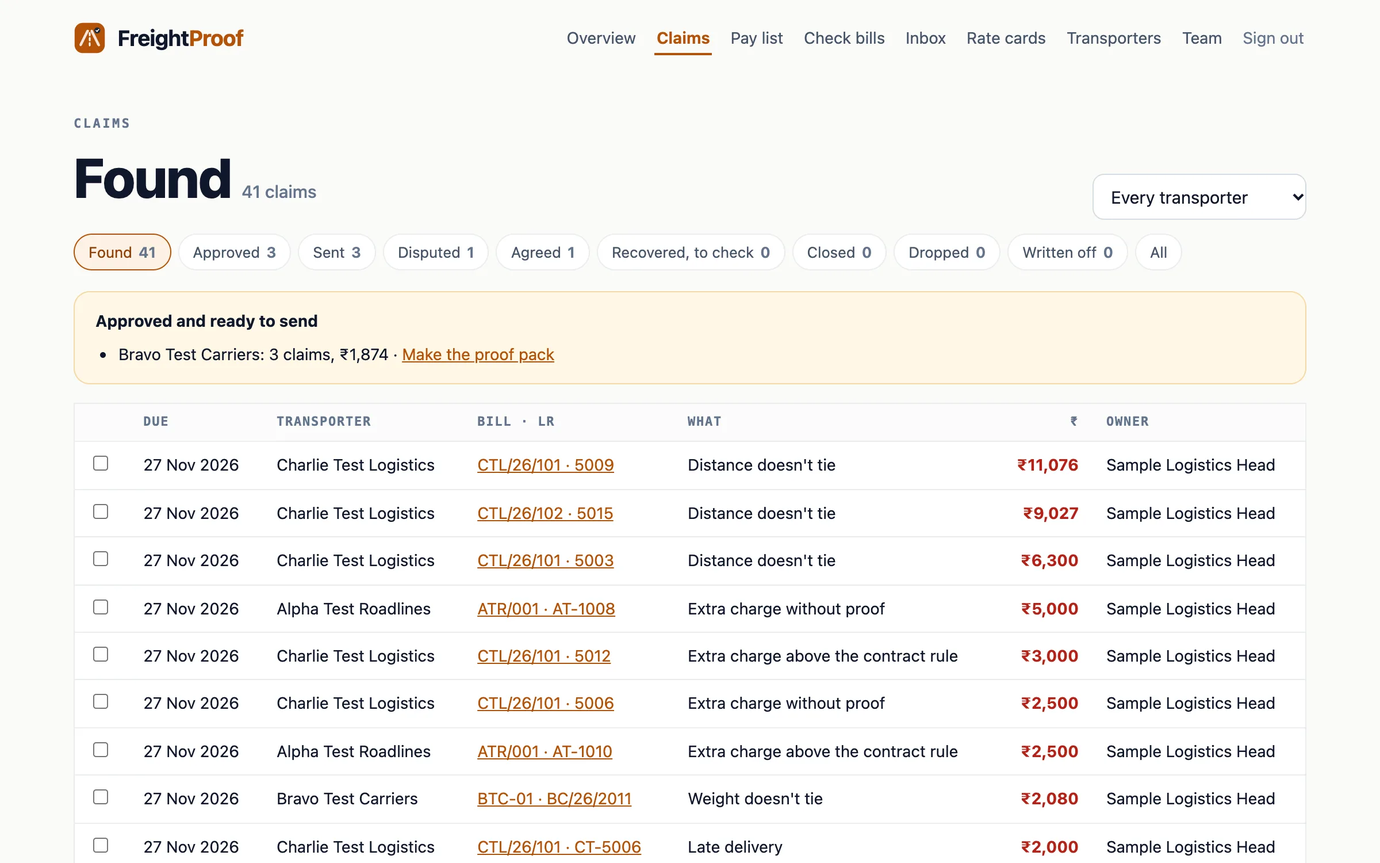
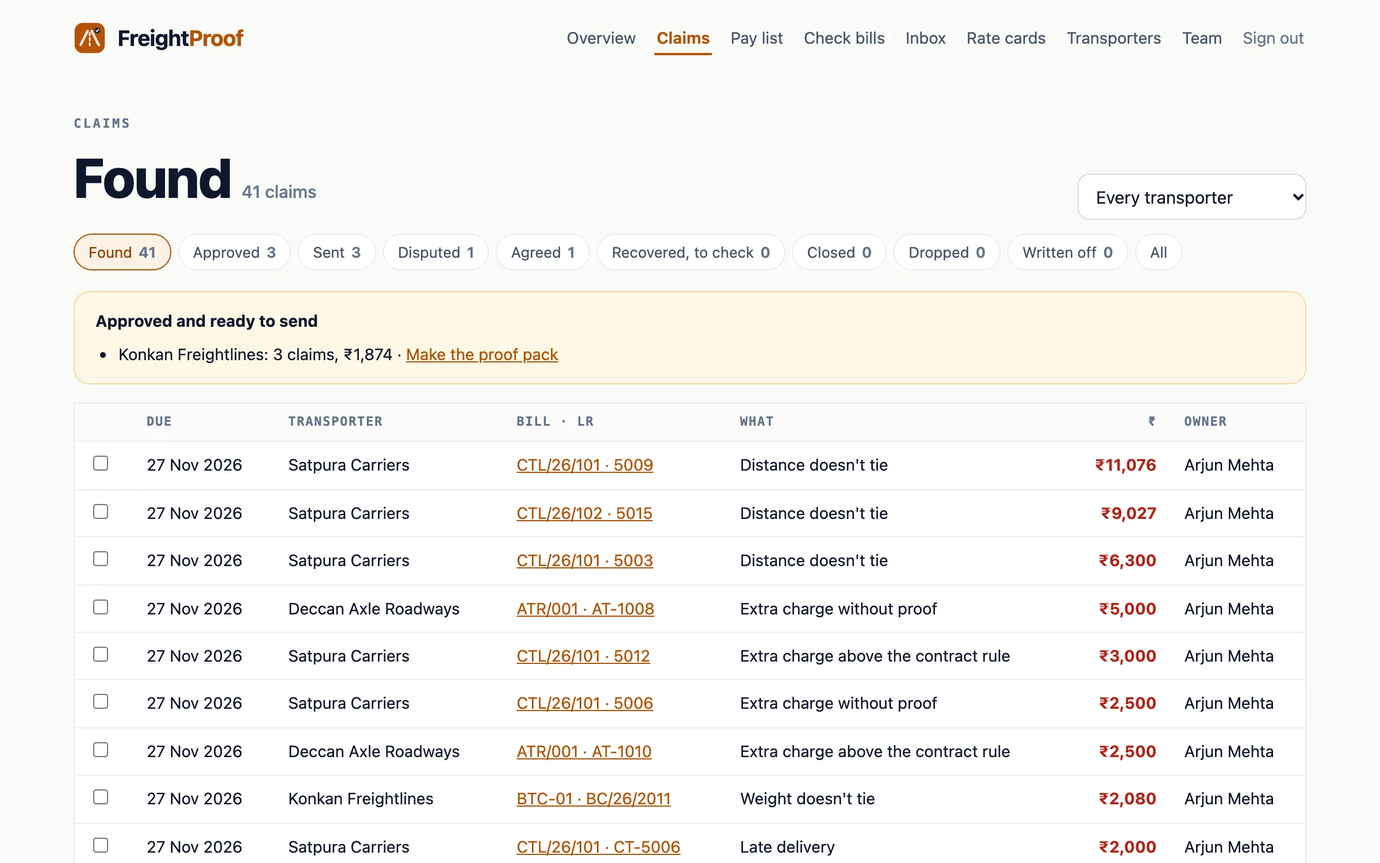
Products: no sample or dev labels; screenshots retaken with realistic demo data
Built from ideator-labs-site 6ffba4e.

diff --git a/products/docketbox/index.html b/products/docketbox/index.html
@@ -159,8 +159,7 @@
             </div>
           </div>
           <div>
-            <figure class="app-screen"><img src="../../assets/images/products/docketbox/docketbox-review.webp" alt="Docketbox review queue: returns waiting for partner approval, oldest first, with days waiting, due date and approve or send back (sample data)" width="2400" height="1500"></figure>
-            <p style="font-size:12px;color:var(--text-muted);margin-top:10px;">Screen shows sample data, for illustration.</p>
+            <figure class="app-screen"><img src="../../assets/images/products/docketbox/docketbox-review.webp" alt="Docketbox review queue: returns waiting for partner approval, oldest first, with days waiting, due date and approve or send back" width="2400" height="1500"></figure>
           </div>
         </div>
       </div>
@@ -233,19 +232,19 @@
         <div class="reveal" style="margin-bottom:24px;">
           <span class="sec-eyebrow">Screens</span>
           <h2 class="sec-title" style="font-size:clamp(24px, 3vw, 32px);">Partner review queue, task board and client page</h2>
-          <p class="sec-subtitle" style="margin-bottom:0;">Screens from Docketbox. Every name, number and amount on them is sample data, made up for illustration.</p>
+          <p class="sec-subtitle" style="margin-bottom:0;">Screens from Docketbox.</p>
         </div>
         <div class="screen-pair screen-trio">
           <figure class="screen-card reveal">
-            <figure class="app-screen"><img src="../../assets/images/products/docketbox/docketbox-review.webp" alt="Docketbox review queue: returns waiting for partner approval, oldest first, with days waiting, due date and approve or send back (sample data)" width="2400" height="1500" loading="lazy"></figure>
+            <figure class="app-screen"><img src="../../assets/images/products/docketbox/docketbox-review.webp" alt="Docketbox review queue: returns waiting for partner approval, oldest first, with days waiting, due date and approve or send back" width="2400" height="1500" loading="lazy"></figure>
             <figcaption><span class="phone-kicker">Review queue</span><strong>What waits for a partner</strong>Every return sent for review, with who sent it and how long it has waited. Approve or send back without opening the task.</figcaption>
           </figure>
           <figure class="screen-card reveal delay-1">
-            <figure class="app-screen"><img src="../../assets/images/products/docketbox/docketbox-board.webp" alt="Docketbox task board: counts by state, then tasks by due date with papers in, owner, state and any late fee running (sample data)" width="2400" height="1500" loading="lazy"></figure>
+            <figure class="app-screen"><img src="../../assets/images/products/docketbox/docketbox-board.webp" alt="Docketbox task board: counts by state, then tasks by due date with papers in, owner, state and any late fee running" width="2400" height="1500" loading="lazy"></figure>
             <figcaption><span class="phone-kicker">Task board</span><strong>Every return, by due date</strong>Overdue, waiting on client, in progress, in review, ready to file and filed, filtered by person, service and state.</figcaption>
           </figure>
           <figure class="screen-card reveal">
-            <figure class="phone-frame"><img src="../../assets/images/products/docketbox/docketbox-upload-390.webp" alt="Docketbox client page on a phone: papers needed with an upload button each, and an option to say there is nothing to send this period (sample data)" width="780" height="1688" loading="lazy"></figure>
+            <figure class="phone-frame"><img src="../../assets/images/products/docketbox/docketbox-upload-390.webp" alt="Docketbox client page on a phone: papers needed with an upload button each, and an option to say there is nothing to send this period" width="780" height="1688" loading="lazy"></figure>
             <figcaption><span class="phone-kicker">Client link</span><strong>What the client sees</strong>What is needed for each period, an upload button per paper, and a way to say there is nothing to send. No sign-in.</figcaption>
           </figure>
         </div>
@@ -267,7 +266,7 @@
           <h2 style="font-size:22px;font-weight:700;color:var(--text-primary);letter-spacing:-0.02em;margin-bottom:14px;">What a demo looks like</h2>
           <ul style="list-style:none;padding:0;margin:0;font-size:14.5px;color:var(--text-secondary);line-height:1.8;">
             <li>&bull; Tell us roughly how many clients you have and which returns you file for them.</li>
-            <li>&bull; We set up a short call and walk you through Docketbox with sample data.</li>
+            <li>&bull; We set up a short call and walk you through Docketbox.</li>
             <li>&bull; We share pricing on the call, before anything costs money.</li>
           </ul>
         </div>

diff --git a/products/freightproof/index.html b/products/freightproof/index.html
@@ -159,8 +159,7 @@
             </div>
           </div>
           <div>
-            <figure class="app-screen"><img src="../../assets/images/products/freightproof/freightproof-claims.webp" alt="FreightProof claims list: found claims with due date, transporter, bill and LR, the overcharge and its owner (sample data)" width="2400" height="1500"></figure>
-            <p style="font-size:12px;color:var(--text-muted);margin-top:10px;">Screen shows sample data, for illustration.</p>
+            <figure class="app-screen"><img src="../../assets/images/products/freightproof/freightproof-claims.webp" alt="FreightProof claims list: found claims with due date, transporter, bill and LR, the overcharge and its owner" width="2400" height="1500"></figure>
           </div>
         </div>
       </div>
@@ -233,19 +232,19 @@
         <div class="reveal" style="margin-bottom:24px;">
           <span class="sec-eyebrow">Screens</span>
           <h2 class="sec-title" style="font-size:clamp(24px, 3vw, 32px);">Claims, evidence and the pay list</h2>
-          <p class="sec-subtitle" style="margin-bottom:0;">Screens from FreightProof. Every name, number and amount on them is sample data, made up for illustration.</p>
+          <p class="sec-subtitle" style="margin-bottom:0;">Screens from FreightProof.</p>
         </div>
         <div class="screen-pair">
           <figure class="screen-card reveal">
-            <figure class="app-screen"><img src="../../assets/images/products/freightproof/freightproof-claims.webp" alt="FreightProof claims list: found claims with due date, transporter, bill and LR, the overcharge and its owner (sample data)" width="2400" height="1500" loading="lazy"></figure>
+            <figure class="app-screen"><img src="../../assets/images/products/freightproof/freightproof-claims.webp" alt="FreightProof claims list: found claims with due date, transporter, bill and LR, the overcharge and its owner" width="2400" height="1500" loading="lazy"></figure>
             <figcaption><span class="phone-kicker">Logistics head</span><strong>Claims to decide</strong>Every found claim with its amount, due date and owner, approved or dropped in a batch.</figcaption>
           </figure>
           <figure class="screen-card reveal delay-1">
-            <figure class="app-screen"><img src="../../assets/images/products/freightproof/freightproof-claim.webp" alt="FreightProof claim page: the bill line as billed, the contract rate and version, the LR record and the next step (sample data)" width="2400" height="1500" loading="lazy"></figure>
+            <figure class="app-screen"><img src="../../assets/images/products/freightproof/freightproof-claim.webp" alt="FreightProof claim page: the bill line as billed, the contract rate and version, the LR record and the next step" width="2400" height="1500" loading="lazy"></figure>
             <figcaption><span class="phone-kicker">Evidence</span><strong>Why each amount is questioned</strong>The bill line, the contract row and rate card version, the LR record, the source file's fingerprint and the transporter's reply.</figcaption>
           </figure>
           <figure class="screen-card reveal">
-            <figure class="app-screen"><img src="../../assets/images/products/freightproof/freightproof-pay.webp" alt="FreightProof pay list: each bill with the amount held on open claims and the amount to pay now (sample data)" width="2400" height="1500" loading="lazy"></figure>
+            <figure class="app-screen"><img src="../../assets/images/products/freightproof/freightproof-pay.webp" alt="FreightProof pay list: each bill with the amount held on open claims and the amount to pay now" width="2400" height="1500" loading="lazy"></figure>
             <figcaption><span class="phone-kicker">Accounts</span><strong>What to pay, and what to hold</strong>Each unpaid bill with the amount held on open claims, with a warning for micro and small transporters near 45 days.</figcaption>
           </figure>
         </div>
@@ -267,7 +266,7 @@
           <h2 style="font-size:22px;font-weight:700;color:var(--text-primary);letter-spacing:-0.02em;margin-bottom:14px;">What a demo looks like</h2>
           <ul style="list-style:none;padding:0;margin:0;font-size:14.5px;color:var(--text-secondary);line-height:1.8;">
             <li>&bull; Tell us how many transporters you use and how bills reach you.</li>
-            <li>&bull; We set up a short call and walk you through FreightProof with sample data.</li>
+            <li>&bull; We set up a short call and walk you through FreightProof.</li>
             <li>&bull; We share pricing on the call, before anything costs money.</li>
           </ul>
         </div>

diff --git a/products/taktline/index.html b/products/taktline/index.html
@@ -159,8 +159,7 @@
             </div>
           </div>
           <div>
-            <figure class="app-screen"><img src="../../assets/images/products/taktline/taktline-owner.webp" alt="Taktline owner screen: rupees at risk on open actions, hours lost yesterday, checks on time, dead stock cash, overdue work by person and open actions by kind (sample data)" width="2400" height="1500"></figure>
-            <p style="font-size:12px;color:var(--text-muted);margin-top:10px;">Screen shows sample data, for illustration.</p>
+            <figure class="app-screen"><img src="../../assets/images/products/taktline/taktline-owner.webp" alt="Taktline owner screen: rupees at risk on open actions, hours lost yesterday, checks on time, dead stock cash, overdue work by person and open actions by kind" width="2400" height="1500"></figure>
           </div>
         </div>
       </div>
@@ -233,19 +232,19 @@
         <div class="reveal" style="margin-bottom:24px;">
           <span class="sec-eyebrow">Screens</span>
           <h2 class="sec-title" style="font-size:clamp(24px, 3vw, 32px);">Owner screen, supplier chase list and the floor phone</h2>
-          <p class="sec-subtitle" style="margin-bottom:0;">Screens from Taktline. Every name, number and amount on them is sample data, made up for illustration.</p>
+          <p class="sec-subtitle" style="margin-bottom:0;">Screens from Taktline.</p>
         </div>
         <div class="screen-pair screen-trio">
           <figure class="screen-card reveal">
-            <figure class="app-screen"><img src="../../assets/images/products/taktline/taktline-owner.webp" alt="Taktline owner screen: rupees at risk on open actions, hours lost yesterday, checks on time, dead stock cash, overdue work by person and open actions by kind (sample data)" width="2400" height="1500" loading="lazy"></figure>
+            <figure class="app-screen"><img src="../../assets/images/products/taktline/taktline-owner.webp" alt="Taktline owner screen: rupees at risk on open actions, hours lost yesterday, checks on time, dead stock cash, overdue work by person and open actions by kind" width="2400" height="1500" loading="lazy"></figure>
             <figcaption><span class="phone-kicker">Owner</span><strong>What needs the owner today</strong>Rupees at risk on open actions, yesterday's lost hours, checks on time and dead stock cash, then only what is late or raised.</figcaption>
           </figure>
           <figure class="screen-card reveal delay-1">
-            <figure class="app-screen"><img src="../../assets/images/products/taktline/taktline-chase.webp" alt="Taktline supplier chase list: late order lines by supplier with quantity and rupees still to come, the stops they caused, and a message to copy (sample data)" width="2400" height="1500" loading="lazy"></figure>
+            <figure class="app-screen"><img src="../../assets/images/products/taktline/taktline-chase.webp" alt="Taktline supplier chase list: late order lines by supplier with quantity and rupees still to come, the stops they caused, and a message to copy" width="2400" height="1500" loading="lazy"></figure>
             <figcaption><span class="phone-kicker">Stock</span><strong>Late suppliers, with the stops they caused</strong>Late order lines by supplier, the machine stops that waited for those items, and a message ready to copy.</figcaption>
           </figure>
           <figure class="screen-card reveal">
-            <figure class="phone-frame"><img src="../../assets/images/products/taktline/taktline-floor-390.webp" alt="Taktline floor phone: a running stop timer with a Running again button, Log a stop and Start-of-shift check (sample data)" width="780" height="1688" loading="lazy"></figure>
+            <figure class="phone-frame"><img src="../../assets/images/products/taktline/taktline-floor-390.webp" alt="Taktline floor phone: a running stop timer with a Running again button, Log a stop and Start-of-shift check" width="780" height="1688" loading="lazy"></figure>
             <figcaption><span class="phone-kicker">Floor</span><strong>From the machine, in a few taps</strong>A stop timer, the stop log and the start-of-shift check, in English, Hindi, Gujarati or Marathi.</figcaption>
           </figure>
         </div>

diff --git a/products/plumbline/index.html b/products/plumbline/index.html
@@ -159,8 +159,7 @@
             </div>
           </div>
           <div>
-            <figure class="app-screen"><img src="../../assets/images/products/plumbline/plumbline-review.webp" alt="Plumbline head office review queue: disputes to decide, escalated fixes, repeat findings and locations failing their latest audit (sample data)" width="2400" height="1500"></figure>
-            <p style="font-size:12px;color:var(--text-muted);margin-top:10px;">Screen shows sample data, for illustration.</p>
+            <figure class="app-screen"><img src="../../assets/images/products/plumbline/plumbline-review.webp" alt="Plumbline head office review queue: disputes to decide, escalated fixes, repeat findings and locations failing their latest audit" width="2400" height="1500"></figure>
           </div>
         </div>
       </div>
@@ -233,19 +232,19 @@
         <div class="reveal" style="margin-bottom:24px;">
           <span class="sec-eyebrow">Screens</span>
           <h2 class="sec-title" style="font-size:clamp(24px, 3vw, 32px);">Head office queue, a finding and the visit plan</h2>
-          <p class="sec-subtitle" style="margin-bottom:0;">Screens from Plumbline. Every name, number and amount on them is sample data, made up for illustration.</p>
+          <p class="sec-subtitle" style="margin-bottom:0;">Screens from Plumbline.</p>
         </div>
         <div class="screen-pair screen-trio">
           <figure class="screen-card reveal">
-            <figure class="app-screen"><img src="../../assets/images/products/plumbline/plumbline-review.webp" alt="Plumbline head office review queue: disputes to decide, escalated fixes, repeat findings and locations failing their latest audit (sample data)" width="2400" height="1500" loading="lazy"></figure>
+            <figure class="app-screen"><img src="../../assets/images/products/plumbline/plumbline-review.webp" alt="Plumbline head office review queue: disputes to decide, escalated fixes, repeat findings and locations failing their latest audit" width="2400" height="1500" loading="lazy"></figure>
             <figcaption><span class="phone-kicker">Head office</span><strong>What only head office settles</strong>Disputes to decide, fixes past their deadline, fixes reopened twice, repeat findings and failing audits, in one queue.</figcaption>
           </figure>
           <figure class="screen-card reveal delay-1">
-            <figure class="app-screen"><img src="../../assets/images/products/plumbline/plumbline-finding.webp" alt="Plumbline finding: the failed checklist item, its corrective action with owner and deadline, photo proof and the full history (sample data)" width="2400" height="1500" loading="lazy"></figure>
+            <figure class="app-screen"><img src="../../assets/images/products/plumbline/plumbline-finding.webp" alt="Plumbline finding: the failed checklist item, its corrective action with owner and deadline, photo proof and the full history" width="2400" height="1500" loading="lazy"></figure>
             <figcaption><span class="phone-kicker">Finding</span><strong>One failed item, from raised to verified</strong>The failed item with its photos, the fix with its owner and deadline, and every step kept in the record.</figcaption>
           </figure>
           <figure class="screen-card reveal">
-            <figure class="phone-frame"><img src="../../assets/images/products/plumbline/plumbline-area-390.webp" alt="Plumbline visit plan on a phone: locations ranked by priority, with the reasons and the fixes to check on site (sample data)" width="780" height="1688" loading="lazy"></figure>
+            <figure class="phone-frame"><img src="../../assets/images/products/plumbline/plumbline-area-390.webp" alt="Plumbline visit plan on a phone: locations ranked by priority, with the reasons and the fixes to check on site" width="780" height="1688" loading="lazy"></figure>
             <figcaption><span class="phone-kicker">Area manager</span><strong>Where to go this week</strong>Locations ranked by risk, failing audits and time since the last audit, with the fixes to check on the visit.</figcaption>
           </figure>
         </div>

diff --git a/products/chairside/index.html b/products/chairside/index.html
@@ -159,8 +159,7 @@
             </div>
           </div>
           <div>
-            <figure class="app-screen"><img src="../../assets/images/products/chairside/chairside-owner.webp" alt="Chairside owner screen: packages owed, redemption checks, due-backs and disputes per outlet, and patterns worth a look (sample data)" width="2400" height="1500"></figure>
-            <p style="font-size:12px;color:var(--text-muted);margin-top:10px;">Screen shows sample data, for illustration.</p>
+            <figure class="app-screen"><img src="../../assets/images/products/chairside/chairside-owner.webp" alt="Chairside owner screen: packages owed, redemption checks, due-backs and disputes per outlet, and patterns worth a look" width="2400" height="1500"></figure>
           </div>
         </div>
       </div>
@@ -233,19 +232,19 @@
         <div class="reveal" style="margin-bottom:24px;">
           <span class="sec-eyebrow">Screens</span>
           <h2 class="sec-title" style="font-size:clamp(24px, 3vw, 32px);">Owner view, commission statement and client confirmation</h2>
-          <p class="sec-subtitle" style="margin-bottom:0;">Screens from Chairside. Every name, number and amount on them is sample data, made up for illustration.</p>
+          <p class="sec-subtitle" style="margin-bottom:0;">Screens from Chairside.</p>
         </div>
         <div class="screen-pair screen-trio">
           <figure class="screen-card reveal">
-            <figure class="app-screen"><img src="../../assets/images/products/chairside/chairside-owner.webp" alt="Chairside owner screen: packages owed, redemption checks, due-backs and disputes per outlet, and patterns worth a look (sample data)" width="2400" height="1500" loading="lazy"></figure>
+            <figure class="app-screen"><img src="../../assets/images/products/chairside/chairside-owner.webp" alt="Chairside owner screen: packages owed, redemption checks, due-backs and disputes per outlet, and patterns worth a look" width="2400" height="1500" loading="lazy"></figure>
             <figcaption><span class="phone-kicker">Owner</span><strong>Every outlet on one screen</strong>What clients have paid for and not used, unconfirmed package uses, overdue due-backs and disputes, per outlet.</figcaption>
           </figure>
           <figure class="screen-card reveal delay-1">
-            <figure class="app-screen"><img src="../../assets/images/products/chairside/chairside-statement.webp" alt="Chairside commission statement: each checked line, how it was checked, and the monthly target working (sample data)" width="2400" height="1500" loading="lazy"></figure>
+            <figure class="app-screen"><img src="../../assets/images/products/chairside/chairside-statement.webp" alt="Chairside commission statement: each checked line, how it was checked, and the monthly target working" width="2400" height="1500" loading="lazy"></figure>
             <figcaption><span class="phone-kicker">Commission</span><strong>A statement the stylist can check</strong>Every line with how it was checked, the target and slab working, adjustments and the total.</figcaption>
           </figure>
           <figure class="screen-card reveal">
-            <figure class="phone-frame"><img src="../../assets/images/products/chairside/chairside-confirm-390.webp" alt="Chairside confirmation page on the client's phone: the service, the package and what is left, with yes and no buttons (sample data)" width="780" height="1688" loading="lazy"></figure>
+            <figure class="phone-frame"><img src="../../assets/images/products/chairside/chairside-confirm-390.webp" alt="Chairside confirmation page on the client's phone: the service, the package and what is left, with yes and no buttons" width="780" height="1688" loading="lazy"></figure>
             <figcaption><span class="phone-kicker">Client's phone</span><strong>The client confirms the use</strong>One scan, two buttons, no app or login. Their answer is recorded with the use.</figcaption>
           </figure>
         </div>

diff --git a/products/furnitrail/index.html b/products/furnitrail/index.html
@@ -159,8 +159,7 @@
             </div>
           </div>
           <div>
-            <figure class="app-screen"><img src="../../assets/images/products/furnitrail/furnitrail-today.webp" alt="FurniTrail morning digest: rupees quoted in open deals, advances due, overdue work by person, escalations and each branch (sample data)" width="2400" height="1500"></figure>
-            <p style="font-size:12px;color:var(--text-muted);margin-top:10px;">Screen shows sample data, for illustration.</p>
+            <figure class="app-screen"><img src="../../assets/images/products/furnitrail/furnitrail-today.webp" alt="FurniTrail morning digest: rupees quoted in open deals, advances due, overdue work by person, escalations and each branch" width="2400" height="1500"></figure>
           </div>
         </div>
       </div>
@@ -233,19 +232,19 @@
         <div class="reveal" style="margin-bottom:24px;">
           <span class="sec-eyebrow">Screens</span>
           <h2 class="sec-title" style="font-size:clamp(24px, 3vw, 32px);">Owner's morning, the order, and the crew's phone</h2>
-          <p class="sec-subtitle" style="margin-bottom:0;">Screens from FurniTrail. Every name, number and amount on them is sample data, made up for illustration.</p>
+          <p class="sec-subtitle" style="margin-bottom:0;">Screens from FurniTrail.</p>
         </div>
         <div class="screen-pair screen-trio">
           <figure class="screen-card reveal">
-            <figure class="app-screen"><img src="../../assets/images/products/furnitrail/furnitrail-today.webp" alt="FurniTrail morning digest: rupees quoted in open deals, advances due, overdue work by person, escalations and each branch (sample data)" width="2400" height="1500" loading="lazy"></figure>
+            <figure class="app-screen"><img src="../../assets/images/products/furnitrail/furnitrail-today.webp" alt="FurniTrail morning digest: rupees quoted in open deals, advances due, overdue work by person, escalations and each branch" width="2400" height="1500" loading="lazy"></figure>
             <figcaption><span class="phone-kicker">Morning digest</span><strong>The store on one screen</strong>Rupees quoted, advances due, what is late and with whom, and every escalation.</figcaption>
           </figure>
           <figure class="screen-card reveal delay-1">
-            <figure class="app-screen"><img src="../../assets/images/products/furnitrail/furnitrail-order.webp" alt="FurniTrail order page: order number, delivery date and slot, total, paid and balance, then the quotation (sample data)" width="2400" height="1500" loading="lazy"></figure>
+            <figure class="app-screen"><img src="../../assets/images/products/furnitrail/furnitrail-order.webp" alt="FurniTrail order page: order number, delivery date and slot, total, paid and balance, then the quotation" width="2400" height="1500" loading="lazy"></figure>
             <figcaption><span class="phone-kicker">Order</span><strong>Money and delivery in one place</strong>Order number, delivery slot, payments and balance, with the quotation below.</figcaption>
           </figure>
           <figure class="screen-card reveal">
-            <figure class="phone-frame"><img src="../../assets/images/products/furnitrail/furnitrail-job-390.webp" alt="FurniTrail delivery job on a crew phone: buyer, address, balance to collect, ask to confirm the time, pieces and loading photos (sample data)" width="780" height="1688" loading="lazy"></figure>
+            <figure class="phone-frame"><img src="../../assets/images/products/furnitrail/furnitrail-job-390.webp" alt="FurniTrail delivery job on a crew phone: buyer, address, balance to collect, ask to confirm the time, pieces and loading photos" width="780" height="1688" loading="lazy"></figure>
             <figcaption><span class="phone-kicker">Crew job</span><strong>What the crew sees</strong>Address, balance to collect, the buyer's time confirmation, photos and the sign-off.</figcaption>
           </figure>
         </div>

diff --git a/products/carecadence/index.html b/products/carecadence/index.html
@@ -159,8 +159,7 @@
             </div>
           </div>
           <div>
-            <figure class="app-screen"><img src="../../assets/images/products/carecadence/carecadence-desk.webp" alt="CareCadence today list: due, overdue, booked and no-show counts, then each patient with a prepared message and an outcome to save (sample data)" width="2400" height="1500"></figure>
-            <p style="font-size:12px;color:var(--text-muted);margin-top:10px;">Screen shows sample data, for illustration.</p>
+            <figure class="app-screen"><img src="../../assets/images/products/carecadence/carecadence-desk.webp" alt="CareCadence today list: due, overdue, booked and no-show counts, then each patient with a prepared message and an outcome to save" width="2400" height="1500"></figure>
           </div>
         </div>
       </div>
@@ -233,19 +232,19 @@
         <div class="reveal" style="margin-bottom:24px;">
           <span class="sec-eyebrow">Screens</span>
           <h2 class="sec-title" style="font-size:clamp(24px, 3vw, 32px);">The desk's list, the owner's screen and the doctor's tap</h2>
-          <p class="sec-subtitle" style="margin-bottom:0;">Screens from CareCadence. Every name, number and amount on them is sample data, made up for illustration.</p>
+          <p class="sec-subtitle" style="margin-bottom:0;">Screens from CareCadence.</p>
         </div>
         <div class="screen-pair screen-trio">
           <figure class="screen-card reveal">
-            <figure class="app-screen"><img src="../../assets/images/products/carecadence/carecadence-desk.webp" alt="CareCadence today list: due, overdue, booked and no-show counts, then each patient with a prepared message and an outcome to save (sample data)" width="2400" height="1500" loading="lazy"></figure>
+            <figure class="app-screen"><img src="../../assets/images/products/carecadence/carecadence-desk.webp" alt="CareCadence today list: due, overdue, booked and no-show counts, then each patient with a prepared message and an outcome to save" width="2400" height="1500" loading="lazy"></figure>
             <figcaption><span class="phone-kicker">Today</span><strong>The desk's list for the day</strong>Who is due or overdue, with a ready message, who works it, and the outcome saved in one place.</figcaption>
           </figure>
           <figure class="screen-card reveal delay-1">
-            <figure class="app-screen"><img src="../../assets/images/products/carecadence/carecadence-owner.webp" alt="CareCadence owner's screen: money recovered this week, items slipped by person and the week's work (sample data)" width="2400" height="1500" loading="lazy"></figure>
+            <figure class="app-screen"><img src="../../assets/images/products/carecadence/carecadence-owner.webp" alt="CareCadence owner's screen: money recovered this week, items slipped by person and the week's work" width="2400" height="1500" loading="lazy"></figure>
             <figcaption><span class="phone-kicker">Owner</span><strong>What came back this week</strong>Money recovered from real visits, payments and settlements, and what slipped, with the items behind each number.</figcaption>
           </figure>
           <figure class="screen-card reveal">
-            <figure class="phone-frame"><img src="../../assets/images/products/carecadence/carecadence-doctor-390.webp" alt="CareCadence doctor page on a phone: today's patients with follow-up buttons (sample data)" width="780" height="1688" loading="lazy"></figure>
+            <figure class="phone-frame"><img src="../../assets/images/products/carecadence/carecadence-doctor-390.webp" alt="CareCadence doctor page on a phone: today's patients with follow-up buttons" width="780" height="1688" loading="lazy"></figure>
             <figcaption><span class="phone-kicker">Doctor</span><strong>One tap after the consultation</strong>The doctor picks when the patient should be back; the desk sees it on their list.</figcaption>
           </figure>
         </div>

diff --git a/products/profora/index.html b/products/profora/index.html
@@ -159,8 +159,7 @@
             </div>
           </div>
           <div>
-            <figure class="app-screen"><img src="../../assets/images/products/profora/profora-leaks.webp" alt="Profora leak board: rupees at stake, rupees better since fixes, overdue by person, and each leak with its owner and deadline (sample data)" width="2400" height="1500"></figure>
-            <p style="font-size:12px;color:var(--text-muted);margin-top:10px;">Screen shows sample data, for illustration.</p>
+            <figure class="app-screen"><img src="../../assets/images/products/profora/profora-leaks.webp" alt="Profora leak board: rupees at stake, rupees better since fixes, overdue by person, and each leak with its owner and deadline" width="2400" height="1500"></figure>
           </div>
         </div>
       </div>
@@ -233,19 +232,19 @@
         <div class="reveal" style="margin-bottom:24px;">
           <span class="sec-eyebrow">Screens</span>
           <h2 class="sec-title" style="font-size:clamp(24px, 3vw, 32px);">Leak board, payback and the fix on a phone</h2>
-          <p class="sec-subtitle" style="margin-bottom:0;">Screens from Profora. Every name, number and amount on them is sample data, made up for illustration.</p>
+          <p class="sec-subtitle" style="margin-bottom:0;">Screens from Profora.</p>
         </div>
         <div class="screen-pair screen-trio">
           <figure class="screen-card reveal">
-            <figure class="app-screen"><img src="../../assets/images/products/profora/profora-leaks.webp" alt="Profora leak board: rupees at stake, rupees better since fixes, overdue by person, and each leak with its owner and deadline (sample data)" width="2400" height="1500" loading="lazy"></figure>
+            <figure class="app-screen"><img src="../../assets/images/products/profora/profora-leaks.webp" alt="Profora leak board: rupees at stake, rupees better since fixes, overdue by person, and each leak with its owner and deadline" width="2400" height="1500" loading="lazy"></figure>
             <figcaption><span class="phone-kicker">Leak board</span><strong>Where money is going and who is fixing it</strong>Open leaks ranked by rupees at stake, with the owner, the state and how late each one is.</figcaption>
           </figure>
           <figure class="screen-card reveal delay-1">
-            <figure class="app-screen"><img src="../../assets/images/products/profora/profora-payback.webp" alt="Profora leak page for a product: profit a week before the fix, the weeks after, and the measured change (sample data)" width="2400" height="1500" loading="lazy"></figure>
+            <figure class="app-screen"><img src="../../assets/images/products/profora/profora-payback.webp" alt="Profora leak page for a product: profit a week before the fix, the weeks after, and the measured change" width="2400" height="1500" loading="lazy"></figure>
             <figcaption><span class="phone-kicker">Payback</span><strong>Closed by the numbers, not by a click</strong>Settled weeks before and after the fix, side by side, with the measured change.</figcaption>
           </figure>
           <figure class="screen-card reveal">
-            <figure class="phone-frame"><img src="../../assets/images/products/profora/profora-fix.webp" alt="Profora leak page on a phone: a product losing money and the form to choose the fix (sample data)" width="780" height="1688" loading="lazy"></figure>
+            <figure class="phone-frame"><img src="../../assets/images/products/profora/profora-fix.webp" alt="Profora leak page on a phone: a product losing money and the form to choose the fix" width="780" height="1688" loading="lazy"></figure>
             <figcaption><span class="phone-kicker">The fix</span><strong>Decide and record it from a phone</strong>The loss behind the leak and the fixes to choose from, with proof added when it is done.</figcaption>
           </figure>
         </div>

diff --git a/products/cashtrail/index.html b/products/cashtrail/index.html
@@ -159,8 +159,7 @@
             </div>
           </div>
           <div>
-            <figure class="app-screen"><img src="../../assets/images/products/cashtrail/cashtrail-case.webp" alt="Cashtrail case page: open flags first, a serious tamper check on an edited PDF, a note box and the sign-off button waiting (sample data)" width="2400" height="1500"></figure>
-            <p style="font-size:12px;color:var(--text-muted);margin-top:10px;">Screen shows sample data, for illustration.</p>
+            <figure class="app-screen"><img src="../../assets/images/products/cashtrail/cashtrail-case.webp" alt="Cashtrail case page: open flags first, a serious tamper check on an edited PDF, a note box and the sign-off button waiting" width="2400" height="1500"></figure>
           </div>
         </div>
       </div>
@@ -233,19 +232,19 @@
         <div class="reveal" style="margin-bottom:24px;">
           <span class="sec-eyebrow">Screens</span>
           <h2 class="sec-title" style="font-size:clamp(24px, 3vw, 32px);">The case, the sign-off and the team's record</h2>
-          <p class="sec-subtitle" style="margin-bottom:0;">Screens from Cashtrail. Every name, number and amount on them is sample data, made up for illustration.</p>
+          <p class="sec-subtitle" style="margin-bottom:0;">Screens from Cashtrail.</p>
         </div>
         <div class="screen-pair screen-trio">
           <figure class="screen-card reveal">
-            <figure class="app-screen"><img src="../../assets/images/products/cashtrail/cashtrail-case.webp" alt="Cashtrail case page: open flags first, a serious tamper check on an edited PDF, a note box and the sign-off button waiting (sample data)" width="2400" height="1500" loading="lazy"></figure>
+            <figure class="app-screen"><img src="../../assets/images/products/cashtrail/cashtrail-case.webp" alt="Cashtrail case page: open flags first, a serious tamper check on an edited PDF, a note box and the sign-off button waiting" width="2400" height="1500" loading="lazy"></figure>
             <figcaption><span class="phone-kicker">Analyst</span><strong>The case page</strong>Open flags first, serious ones on top, each cleared with a note before the case can go for sign-off.</figcaption>
           </figure>
           <figure class="screen-card reveal delay-1">
-            <figure class="app-screen"><img src="../../assets/images/products/cashtrail/cashtrail-value.webp" alt="Cashtrail value page: cases opened, median time to sign-off, flags and tamper findings (sample data)" width="2400" height="1500" loading="lazy"></figure>
+            <figure class="app-screen"><img src="../../assets/images/products/cashtrail/cashtrail-value.webp" alt="Cashtrail value page: cases opened, median time to sign-off, flags and tamper findings" width="2400" height="1500" loading="lazy"></figure>
             <figcaption><span class="phone-kicker">Head of credit</span><strong>What the desk did</strong>Cases, time to sign-off, flags and tamper findings, counted from what happened.</figcaption>
           </figure>
           <figure class="screen-card reveal">
-            <figure class="phone-frame"><img src="../../assets/images/products/cashtrail/cashtrail-signoff-390.webp" alt="Cashtrail case in review on a phone: sign off or send back, and each cleared flag with the analyst's note (sample data)" width="780" height="1688" loading="lazy"></figure>
+            <figure class="phone-frame"><img src="../../assets/images/products/cashtrail/cashtrail-signoff-390.webp" alt="Cashtrail case in review on a phone: sign off or send back, and each cleared flag with the analyst's note" width="780" height="1688" loading="lazy"></figure>
             <figcaption><span class="phone-kicker">Credit manager</span><strong>Sign off or send back</strong>Every flag's note and who wrote it, then one button to sign off.</figcaption>
           </figure>
         </div>

diff --git a/products/pollenrev/index.html b/products/pollenrev/index.html
@@ -134,7 +134,7 @@
               </a>
             </div>
           </div>
-          <figure class="app-screen"><img src="../../assets/images/products/pollenrev/pollenrev-dashboard.webp" alt="PollenRev home dashboard: pipeline value, win rate, new leads and deals waiting (sample data)" width="2400" height="1500"></figure>
+          <figure class="app-screen"><img src="../../assets/images/products/pollenrev/pollenrev-dashboard.webp" alt="PollenRev home dashboard: pipeline value, win rate, new leads and deals waiting" width="2400" height="1500"></figure>
         </div>
       </div>
     </section>
@@ -206,15 +206,15 @@
         <div class="reveal" style="margin-bottom:24px;">
           <span class="sec-eyebrow">A look inside</span>
           <h2 class="sec-title" style="font-size:clamp(24px, 3vw, 32px);">Leads and deals, side by side</h2>
-          <p class="sec-subtitle" style="margin-bottom:0;">Screens from PollenRev. Every business, person and amount on them is sample data, made up for illustration.</p>
+          <p class="sec-subtitle" style="margin-bottom:0;">Screens from PollenRev.</p>
         </div>
         <div class="screen-pair">
           <figure class="screen-card reveal">
-            <figure class="app-screen"><img src="../../assets/images/products/pollenrev/pollenrev-prospects.webp" alt="PollenRev leads list with fit scores, how to reach each lead and their status (sample data)" width="2400" height="1500" loading="lazy"></figure>
+            <figure class="app-screen"><img src="../../assets/images/products/pollenrev/pollenrev-prospects.webp" alt="PollenRev leads list with fit scores, how to reach each lead and their status" width="2400" height="1500" loading="lazy"></figure>
             <figcaption><span class="phone-kicker">Leads</span><strong>Best fit first</strong>Every lead scored against your ideal customer, with the best way to reach them.</figcaption>
           </figure>
           <figure class="screen-card reveal delay-1">
-            <figure class="app-screen"><img src="../../assets/images/products/pollenrev/pollenrev-crm.webp" alt="PollenRev pipeline board with deals in New, Qualified, Proposal sent, Won and Lost (sample data)" width="2400" height="1500" loading="lazy"></figure>
+            <figure class="app-screen"><img src="../../assets/images/products/pollenrev/pollenrev-crm.webp" alt="PollenRev pipeline board with deals in New, Qualified, Proposal sent, Won and Lost" width="2400" height="1500" loading="lazy"></figure>
             <figcaption><span class="phone-kicker">Deals</span><strong>One pipeline</strong>Every deal from first call to won, with the open value always in view.</figcaption>
           </figure>
         </div>

diff --git a/products/index.html b/products/index.html
@@ -131,7 +131,6 @@
       <div class="container">
         <div class="reveal" style="margin-bottom:28px;">
           <h2 class="sec-title" style="font-size:clamp(24px, 3vw, 32px);">All products, by sector</h2>
-          <p class="sec-subtitle" style="margin-bottom:0;">Screenshots use sample data.</p>
         </div>
         <div class="prod-grid">
           <article class="prod-tile reveal" data-product="furnitrail" id="furnitrail">
